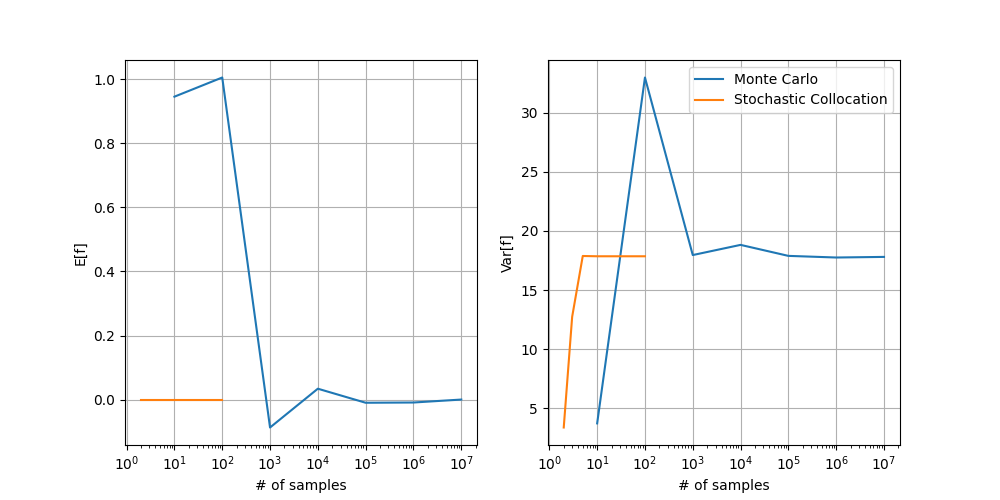
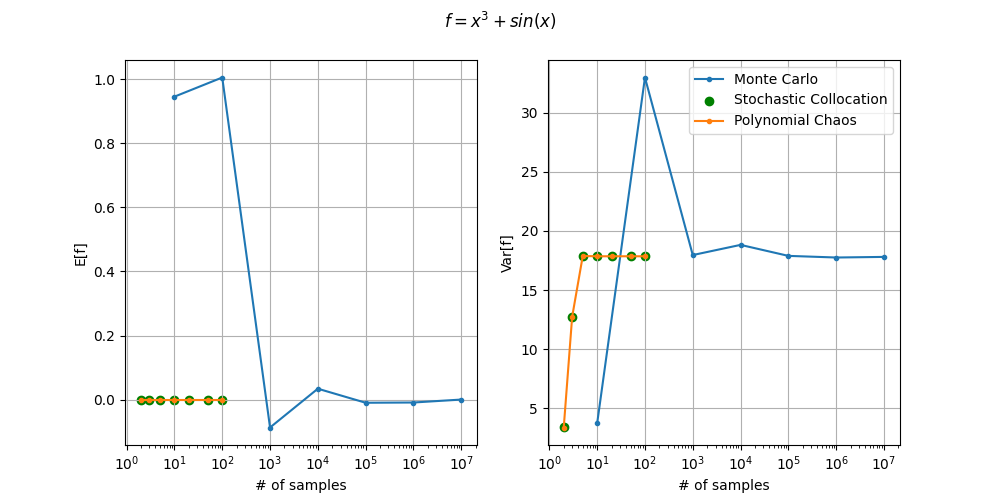
backup

diff --git a/show.py b/show.py
@@ -3,23 +3,27 @@ import pandas as pd
 
 scdf = pd.read_csv("sc.csv")
 mcdf = pd.read_csv("mc.csv")
+pcdf = pd.read_csv("pce.csv")
 
 plt.figure(figsize=(10, 5))
 plt.subplot(1, 2, 1)
-plt.plot(mcdf["n"], mcdf["mean"], label="Monte Carlo")
-plt.plot(scdf["n"], scdf["mean"], label="Stochastic Collocation")
+plt.plot(mcdf["n"], mcdf["mean"], label="Monte Carlo", marker=".")
+plt.scatter(scdf["n"], scdf["mean"], label="Stochastic Collocation", marker="o", c="green")
+plt.plot(pcdf["n"], pcdf["mean"], label="Polynomial Chaos", marker=".")
 plt.xscale("log")
 plt.xlabel("# of samples")
 plt.ylabel("E[f]")
 plt.grid(True)
 
 plt.subplot(1, 2, 2)
-plt.plot(mcdf["n"], mcdf["var"], label="Monte Carlo")
-plt.plot(scdf["n"], scdf["var"], label="Stochastic Collocation")
+plt.plot(mcdf["n"], mcdf["var"], label="Monte Carlo", marker=".")
+plt.scatter(scdf["n"], scdf["var"], label="Stochastic Collocation", marker="o", c="green")
+plt.plot(pcdf["n"], pcdf["var"], label="Polynomial Chaos", marker=".")
 plt.xscale("log")
 plt.xlabel("# of samples")
 plt.ylabel("Var[f]")
 plt.legend()
 plt.grid(True)
 
+plt.suptitle("$f=x^3+sin(x)$")
 plt.savefig("test.png")
